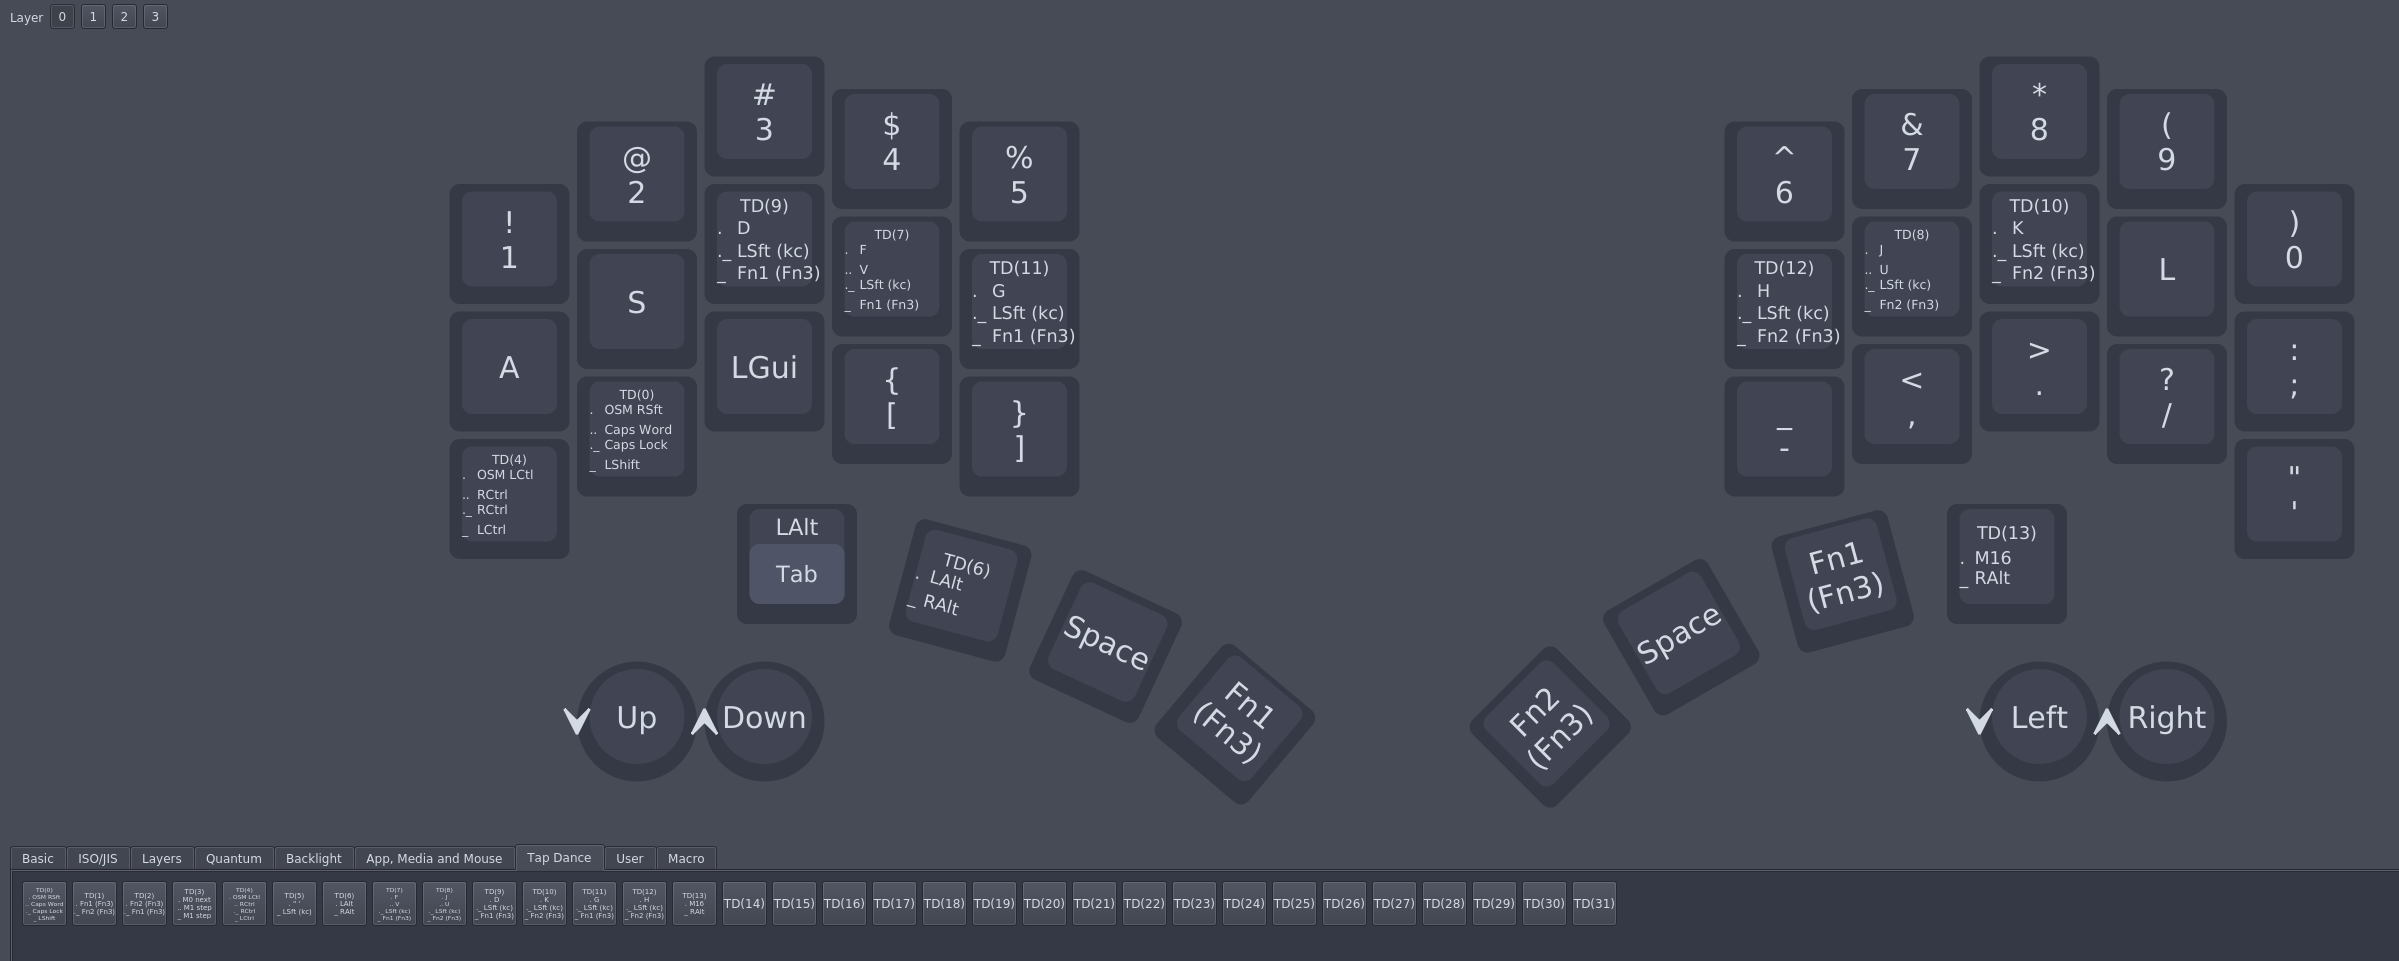
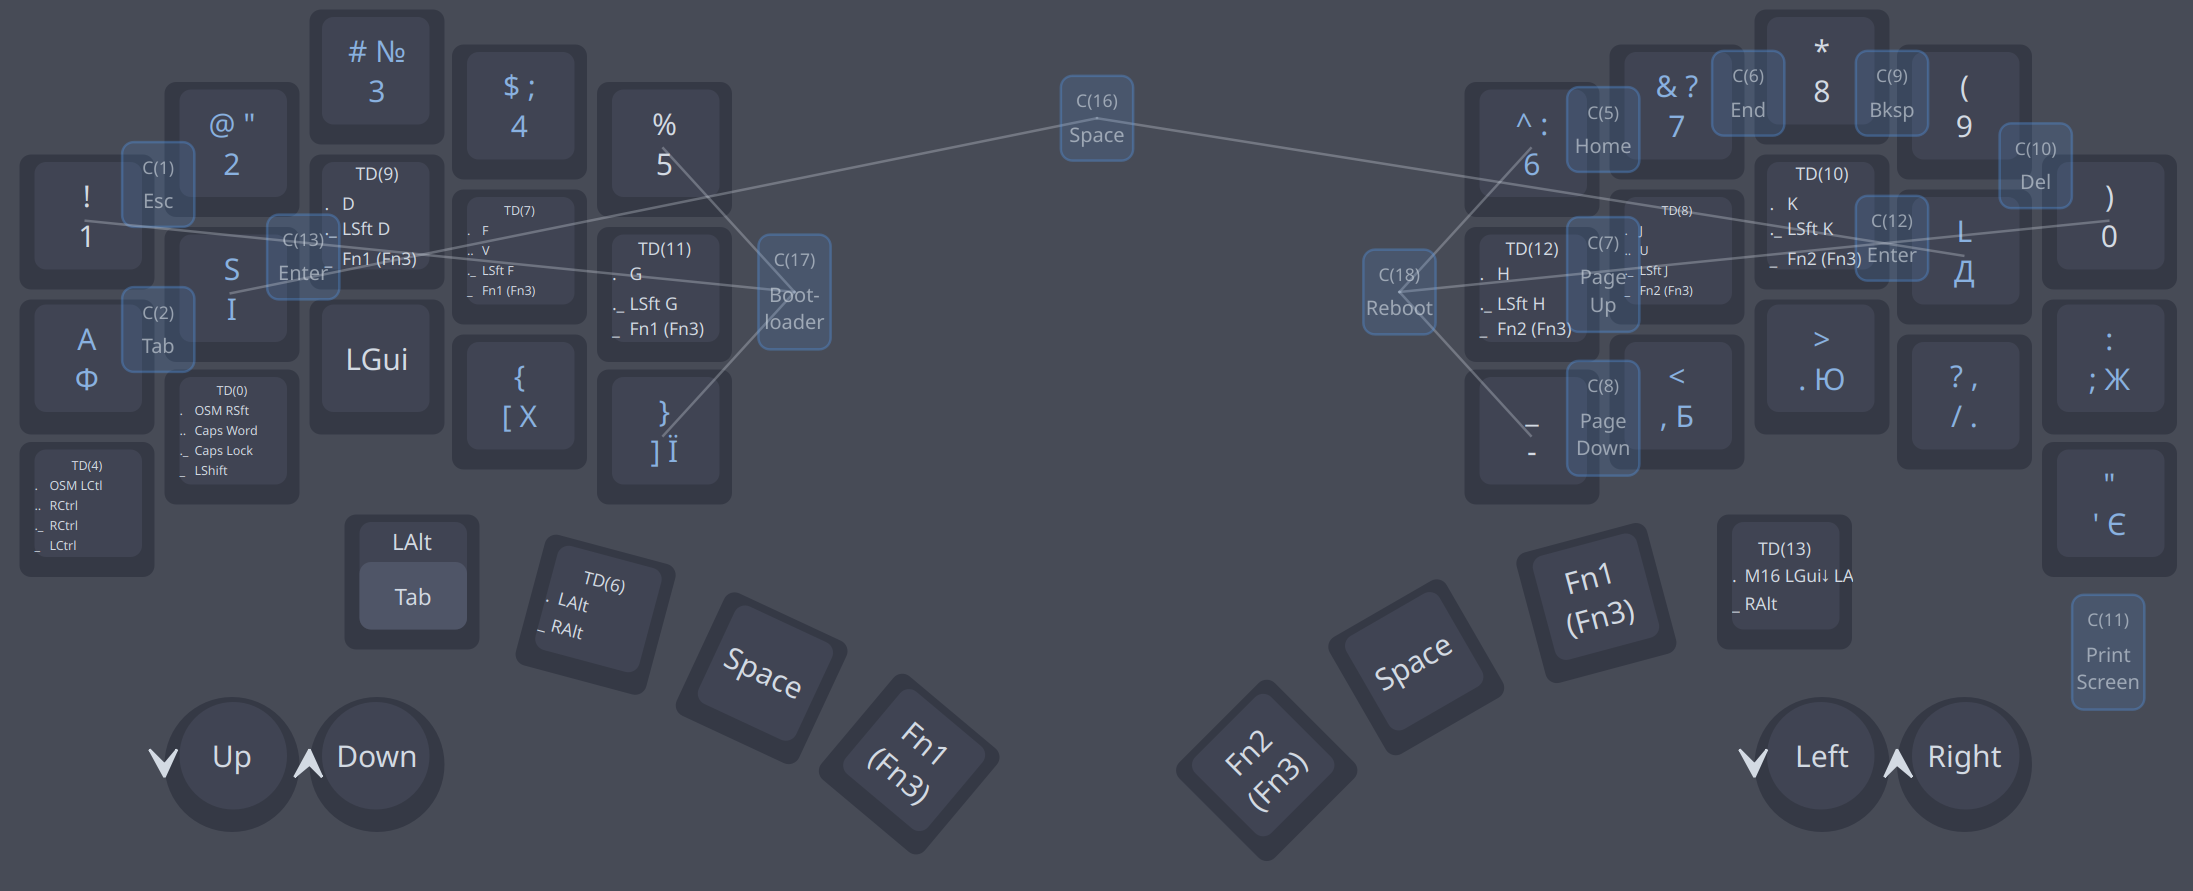
Update fork README change summary

diff --git a/.github/README.md b/.github/README.md
@@ -8,12 +8,9 @@ See [README.md](/README.md) for the upstream overview, release links, and develo
 
 This fork focuses on making tap dance and macro behavior visible directly in the GUI so key assignments are easier to understand at a glance.
 
-- Tap dance key labels now preview actions using dot/underscore notation.
-- Keymap rendering shows the tap dance header centered with action lines aligned for readability.
-- Tap dance labels update reliably across the UI when entries are changed.
-- Tap dance fonts are scaled down for dense labels without shrinking the keycode button grid.
-- Macro key labels now preview text content and refresh after saving macros.
-- Macro labels use smaller fonts for multi-line previews without changing button sizing.
+- Tap dance: key labels preview dot/underscore actions; header/action lines align for readability; labels refresh after edits; font sizing stays compact without shrinking the grid.
+- Macros: labels preview text content and key actions; refresh after saving; smaller fonts for multi-line previews without changing button sizing.
+- Keymap rendering: combo overlays for chorded inputs; masked key labels expand to show inner keycodes.
 
 ## Screenshots
 
